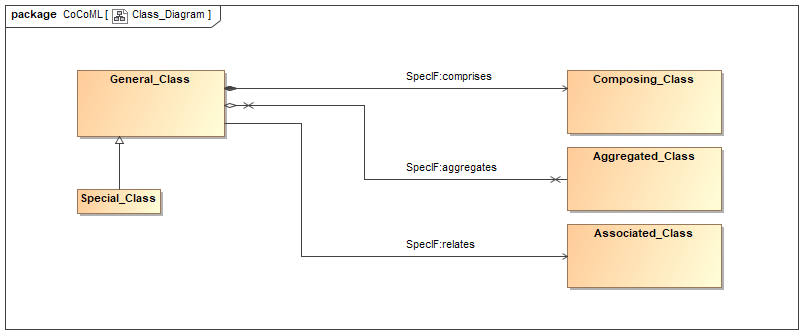
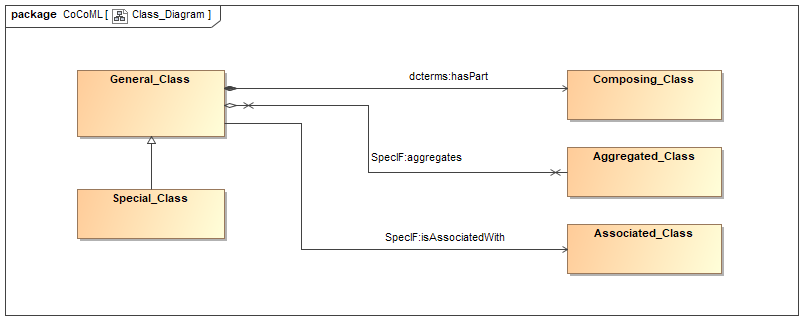
UML class diagram

diff --git a/From-UML-SysML/50_Class Diagram.md b/From-UML-SysML/50_Class Diagram.md
@@ -9,25 +9,31 @@ nav_order: 01
 
 As a very step, the following entities are defined:
 
-| UML | SpecIF [dcterms:type] |
-| ---: | :--- |
-| uml:class | SpecIF:ModelElement [uml:class] |
+| UML | SpecIF <dcterms:type> | OWL/RDF |
+| ---: | :--- | :--- |
+| uml:class | [SpecIF:ModelElement](https://specif.de/apps/edit#import=../v1.1/Ontology.specif;view=doc;project=P-SpecIF-Ontology;node=N-DC9wVTLyGWOOBEpHdGRXwrkGNWt) <uml:class> |  |
 
 ... and the following relations:
 
-| UML | direction | SpecIF |
-| ---: | :---: | :--- |
-| uml:Generalization | inverted | SpecIF:specializes |
-| uml:Composition | same | dcterms:hasPart |
-| uml:Aggregation | same | SpecIF:aggregates |
-| uml:Association | same | SpecIF:associates |
+| UML | direction | SpecIF | OWL/RDF |
+| ---: | :---: | :--- | :--- |
+| uml:Generalization | inverted | [SpecIF:isSpecializationOf](https://specif.de/apps/edit#import=../v1.1/Ontology.specif;view=doc;project=P-SpecIF-Ontology;node=N-8pUc6Vjp86KYxpBFwvbnduOoHKp) |  |
+| uml:Composition | same | [dcterms:hasPart](https://specif.de/apps/edit#import=../v1.1/Ontology.specif;view=doc;project=P-SpecIF-Ontology;node=N-5AP5qdMeBeBnURVia2BWtTlTL3r) |  |
+| uml:Aggregation | same | [SpecIF:aggregates](https://specif.de/apps/edit#import=../v1.1/Ontology.specif;view=doc;project=P-SpecIF-Ontology;node=N-hmCfLTnuYbWWsE4qqo8zb8CwaE2) |  |
+| uml:Association | same | [SpecIF:isAssociatedWith](https://specif.de/apps/edit#import=../v1.1/Ontology.specif;view=doc;project=P-SpecIF-Ontology;node=N-H8KY2yoKNmBqEgSojfGX9oBclMN) |  |
 
 ## Details
 
-A directed association in UML means that only one side knows (can navigate to) the other. In SpecIF every association is a statement with subject, predicate and object, hence directed like RDF statements. When translating a UML/SysML class diagram to SpecIF and further on to OWL/RDF:
+A directed association in UML means that only one side knows (can navigate to) the other. In SpecIF like RDF every association is a statement with subject, predicate and object. When translating a UML/SysML class diagram to SpecIF and further on to OWL/RDF:
 - In case of a composition and aggregation, the class with the rhombus is the subject and the arrow is ignored. 
-- In case of a general association, the arrow is interpreted as the direction according to RDF. Thus, the arrow póints from subject to object. Associations with zero or two arrow-heads will get an arbitrary direction.
+- In case of a general association, the arrow is interpreted as the direction according to RDF. Thus, the arrow póints from subject to object. UML associations with zero or two arrow-heads will get an arbitrary direction.
 
 ## Example
 
 ![UML Class Diagram](../assets/images/UML-SysML/Class_Diagram.png)
+_Figure: UML Class Diagram_
+
+The UML model transformed to SpecIF:
+- [UML Class Diagram](https://specif.de/apps/edit#import=../examples/CoCoML.specif.zip;view=doc;project=eee_1045467100313_135436_1;node=N-8264661645).
+- The [relations of 'General_Class'](https://specif.de/apps/edit#import=../examples/CoCoML.specif.zip;view=statements;project=eee_1045467100313_135436_1;node=N-12061513685). 
+- Download the [SpecIF file](https://specif.de/examples/CoCoML.specif.zip) ... in case you want to take a closer look.

diff --git a/From-UML-SysML/5_From-UML-SysML.md b/From-UML-SysML/5_From-UML-SysML.md
@@ -7,4 +7,4 @@ nav_order: 5
 
 # Authoring with UML/SysML
 
-The translation of selected UML/SysML features to SpecIF.
+The translation of selected UML/SysML features to SpecIF and further on to OWL/RDF.
